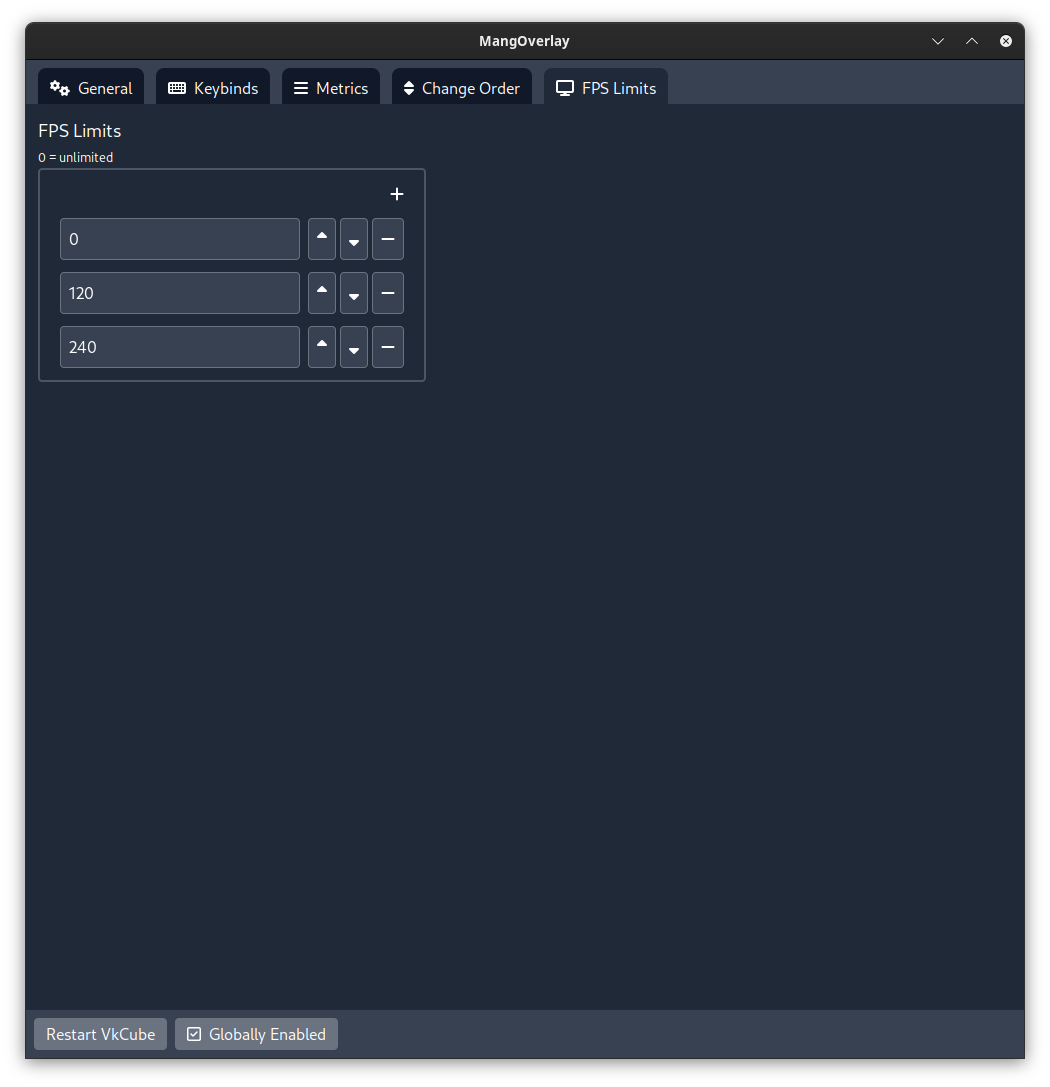
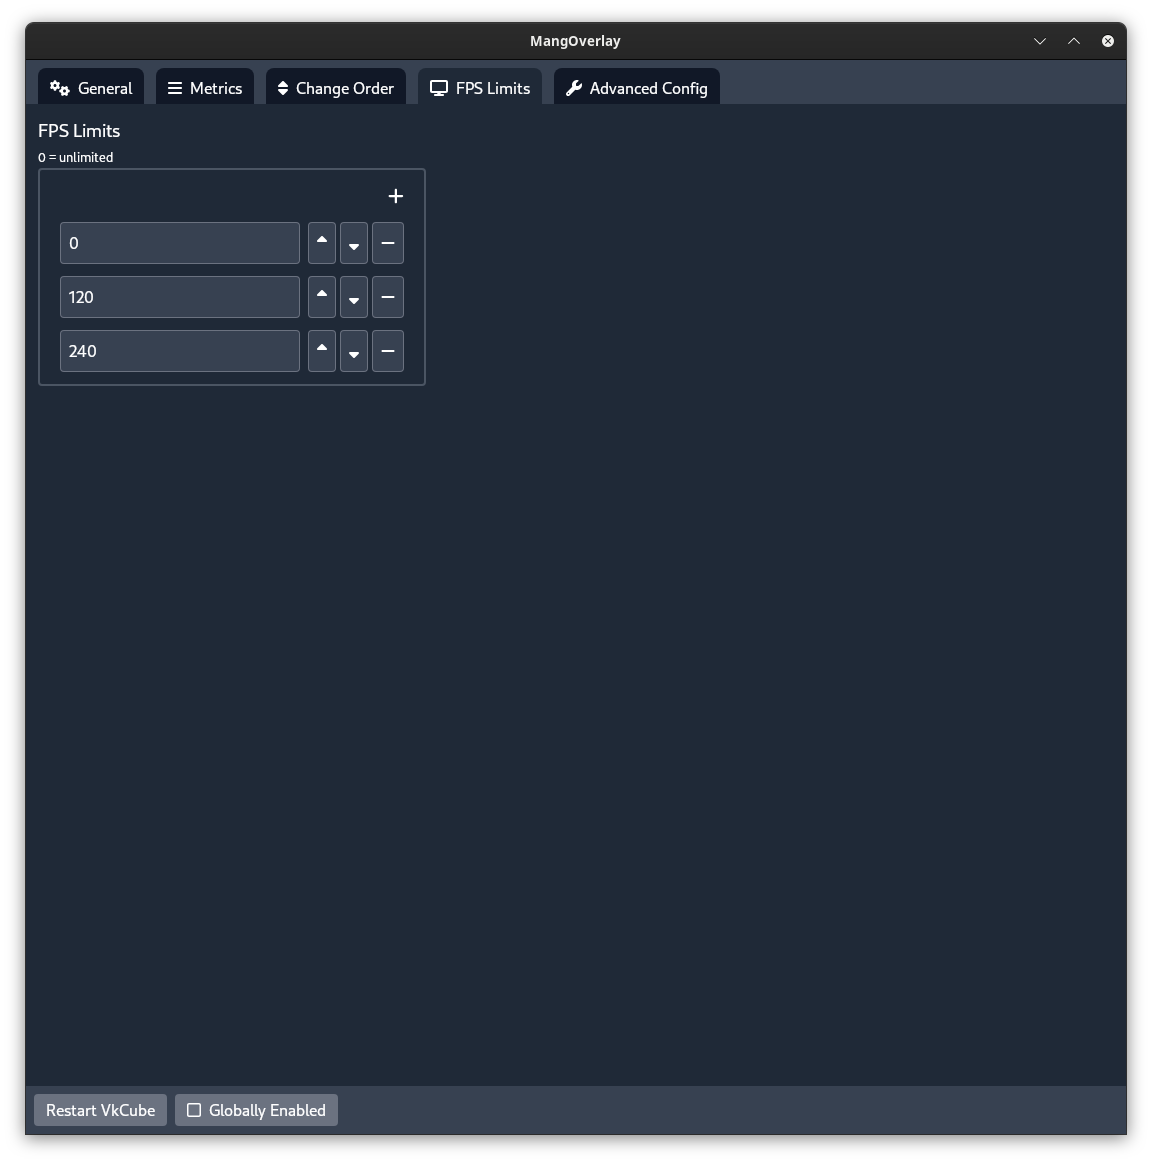
update readme

Changed region(s): [[0.0, 0.0304, 1.0, 0.9715]]

diff --git a/README.md b/README.md
@@ -13,7 +13,7 @@ You can find installation instructions on the [Releases](https://github.com/lois
 
 
 ![General Settings](readme/generalSettings.png)
-![Keybinding Settings](readme/keybindSettings.png)
 ![Metrics Settings](readme/metricsSettings.png)
 ![Order Settings](readme/orderSettings.png)
 ![FPS Limits](readme/fpsLimits.png)
+![Advanced Config](readme/advancedConfig.png)
